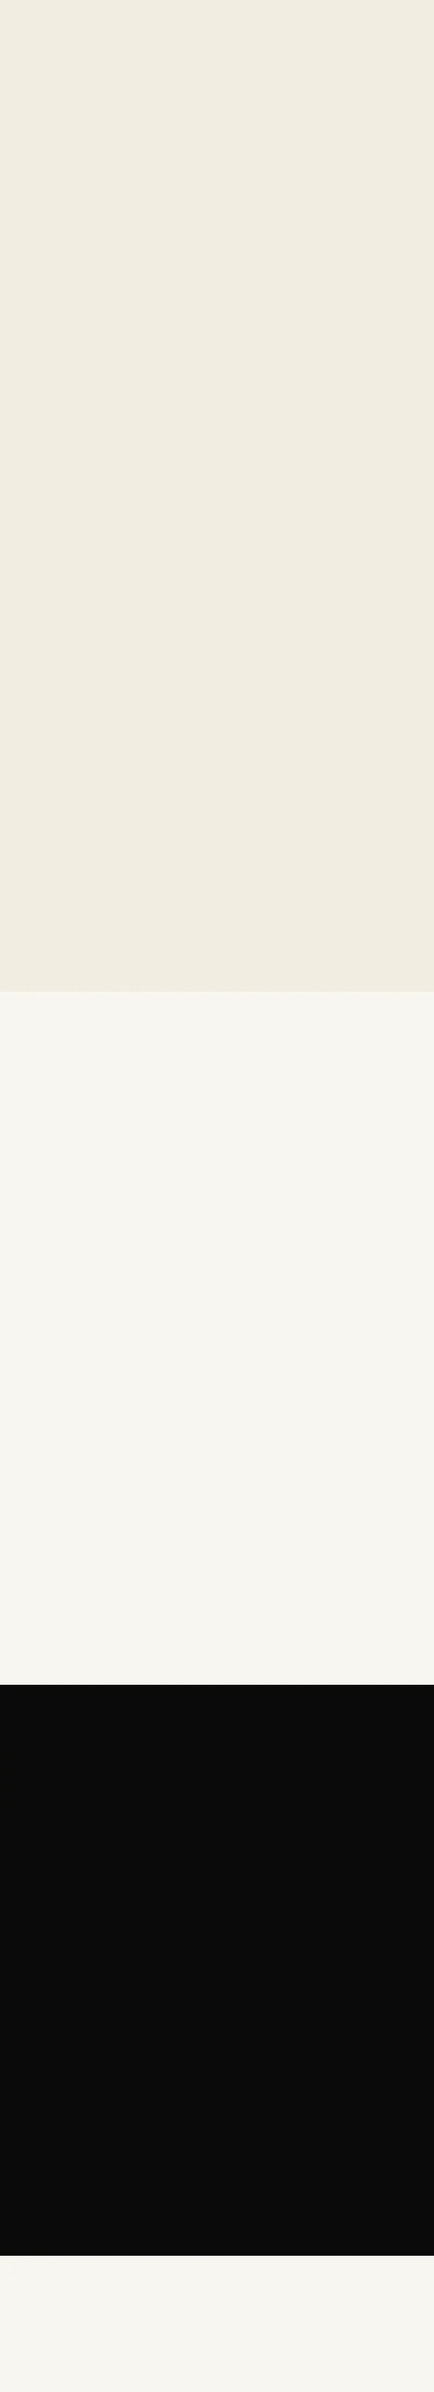
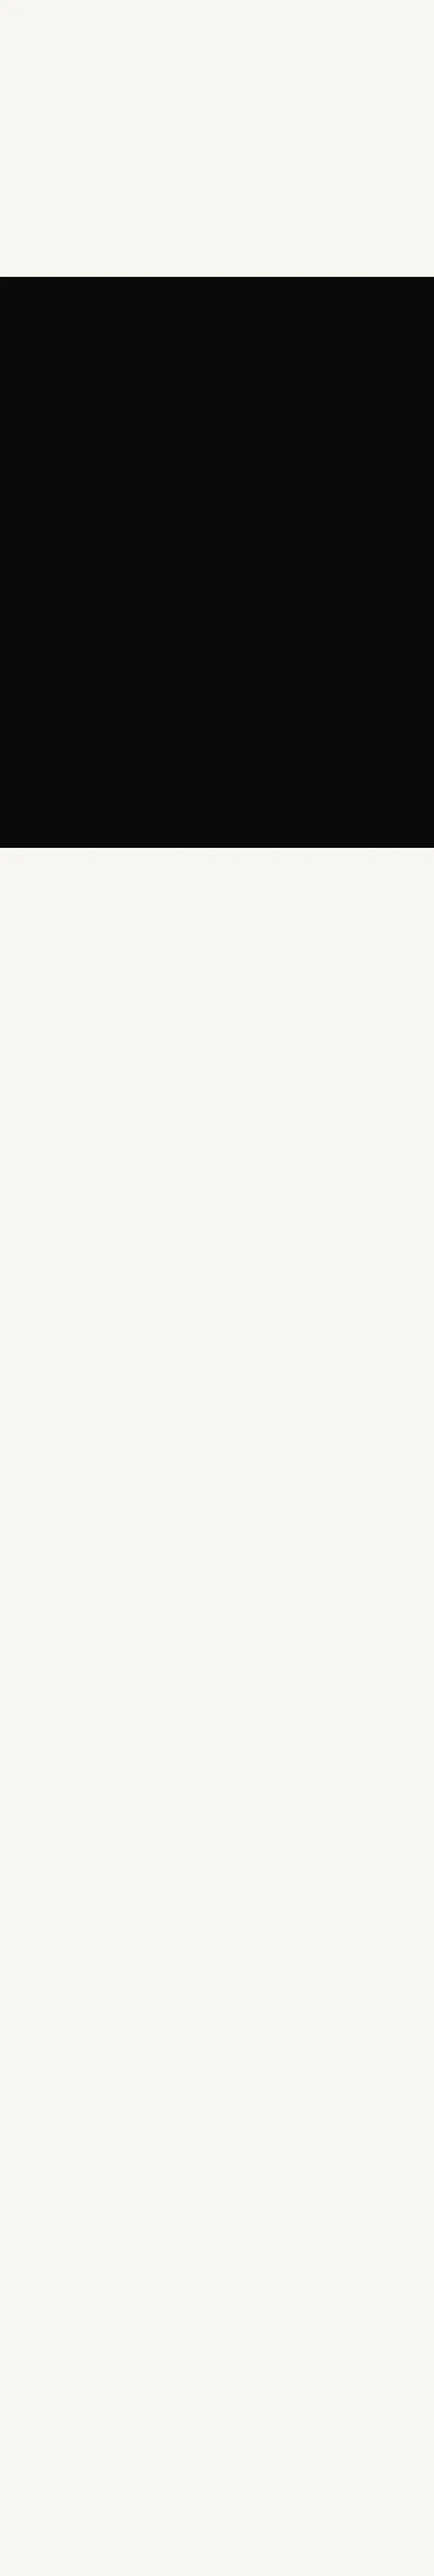
Catture aggiornate: Alberto Pecchini, Ing. Dario Donelli
Rifatte da .github/workflows/catture.yml: il sito online era cambiato.

diff --git a/albertopecchini.it/src/data/catture.js b/albertopecchini.it/src/data/catture.js
@@ -4,17 +4,16 @@
 // la copia vecchia dopo un aggiornamento.
 
 export const catture = {
-  'ap-desktop-tall.webp': { w: 1200, h: 2833, v: 'c43b2279' },
-  'ap-desktop.webp': { w: 1200, h: 750, v: '3d9caef8' },
-  'ap-iphone-01.webp': { w: 804, h: 4424, v: '26431033' },
-  'ap-iphone-02.webp': { w: 804, h: 4424, v: '3f1d7ded' },
-  'ap-iphone-03.webp': { w: 804, h: 4424, v: 'a5308e74' },
-  'ap-iphone-04.webp': { w: 804, h: 4424, v: '5984f59b' },
-  'ap-iphone-05.webp': { w: 804, h: 4424, v: 'e7604467' },
-  'ap-iphone-06.webp': { w: 804, h: 4418, v: '115f4639' },
-  'ap-mobile-tall.webp': { w: 600, h: 4000, v: 'f94a9426' },
-  'ap-mobile.webp': { w: 600, h: 1298, v: '6255e7da' },
-  'ap-tablet.webp': { w: 720, h: 1036, v: 'c8ecc461' },
+  'ap-desktop-tall.webp': { w: 1200, h: 2833, v: 'd0a90e8d' },
+  'ap-desktop.webp': { w: 1200, h: 750, v: 'edacaf16' },
+  'ap-iphone-01.webp': { w: 804, h: 4764, v: '59a27e89' },
+  'ap-iphone-02.webp': { w: 804, h: 4764, v: '4008a2d5' },
+  'ap-iphone-03.webp': { w: 804, h: 4764, v: '93b6e5ac' },
+  'ap-iphone-04.webp': { w: 804, h: 4764, v: '1dde2042' },
+  'ap-iphone-05.webp': { w: 804, h: 4764, v: 'bca02c88' },
+  'ap-mobile-tall.webp': { w: 600, h: 4000, v: '6027f5a7' },
+  'ap-mobile.webp': { w: 600, h: 1298, v: 'b5a76fee' },
+  'ap-tablet.webp': { w: 720, h: 1036, v: '4fcd6817' },
   'cascina-contatti-mobile.webp': { w: 600, h: 1298, v: '990e9109' },
   'cascina-desktop-tall.webp': { w: 1200, h: 2833, v: 'fe6d5c83' },
   'cascina-desktop.webp': { w: 1200, h: 750, v: 'd17236bb' },
@@ -23,11 +22,11 @@ export const catture = {
   'cascina-mobile.webp': { w: 600, h: 1298, v: '4b5a2a22' },
   'cascina-prodotti-desktop.webp': { w: 1200, h: 750, v: '8993284d' },
   'cascina-tablet.webp': { w: 720, h: 1036, v: '19d30650' },
-  'dd-desktop-tall.webp': { w: 1200, h: 2833, v: '615a0b17' },
-  'dd-desktop.webp': { w: 1200, h: 750, v: 'be7797e0' },
-  'dd-mobile-tall.webp': { w: 600, h: 4000, v: 'e5cc57ff' },
-  'dd-mobile.webp': { w: 600, h: 1298, v: 'd27374c1' },
-  'dd-tablet.webp': { w: 720, h: 1036, v: 'dbd21b79' },
+  'dd-desktop-tall.webp': { w: 1200, h: 2833, v: 'f2e8ba8e' },
+  'dd-desktop.webp': { w: 1200, h: 750, v: 'ecb4b8eb' },
+  'dd-mobile-tall.webp': { w: 600, h: 4000, v: '1d3b8aad' },
+  'dd-mobile.webp': { w: 600, h: 1298, v: '787e98a4' },
+  'dd-tablet.webp': { w: 720, h: 1036, v: '28cdd79f' },
   'rivalta-desktop-tall.webp': { w: 1200, h: 2833, v: 'd17d9c4d' },
   'rivalta-desktop.webp': { w: 1200, h: 750, v: '823ee038' },
   'rivalta-luogo-tablet.webp': { w: 720, h: 960, v: '9c234437' },
